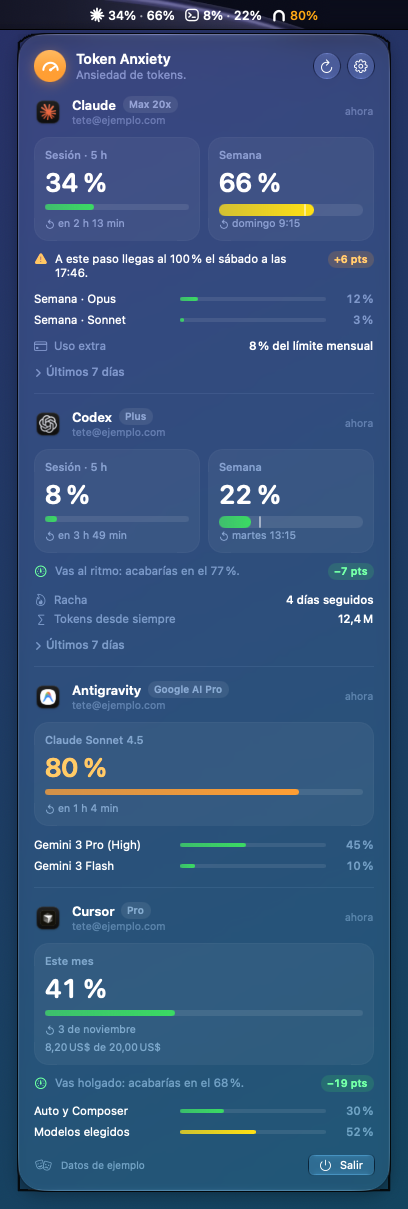
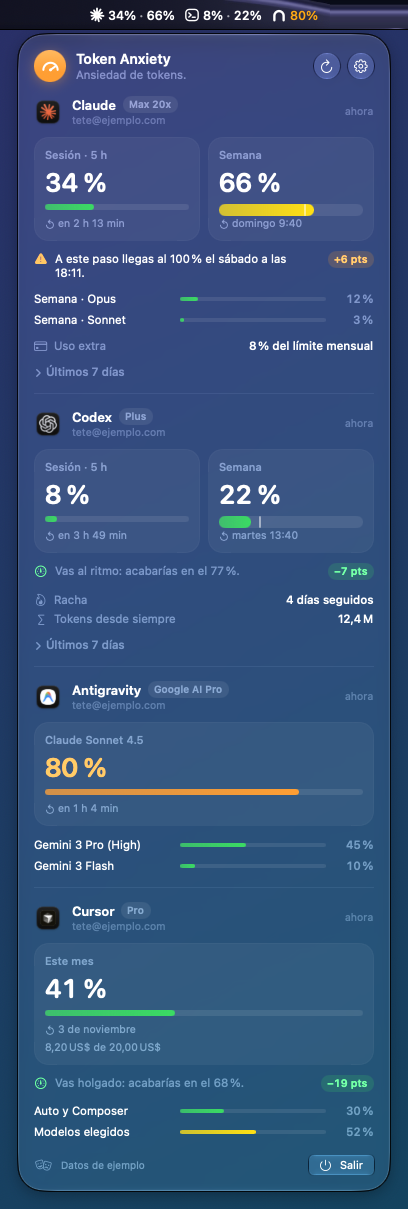
Round the panel's shadow along with its glass
NSGlassEffectView leaves a faint fill in its square corners, and the window's shadow follows whatever the window draws, so a square outline and a grey wedge showed behind each rounded corner of the panel. The panel's content is now clipped to the glass's rounded shape, so the shadow is rounded too; checked in light and dark mode.

The README screenshots are retaken with the fix.

diff --git a/Sources/TokenAnxiety/PanelController.swift b/Sources/TokenAnxiety/PanelController.swift
@@ -88,7 +88,16 @@ final class PanelController {
         let glass = NSGlassEffectView()
         glass.cornerRadius = Self.cornerRadius
         glass.contentView = hosting
-        panel.contentView = glass
+        // The glass leaves a faint fill in its square corners, and the window's shadow
+        // follows whatever is drawn: clipped to the rounded shape, so is the shadow.
+        let clip = NSView()
+        clip.wantsLayer = true
+        clip.layer?.cornerRadius = Self.cornerRadius
+        clip.layer?.cornerCurve = .continuous
+        clip.layer?.masksToBounds = true
+        glass.autoresizingMask = [.width, .height]
+        clip.addSubview(glass)
+        panel.contentView = clip
         return panel
     }
 
